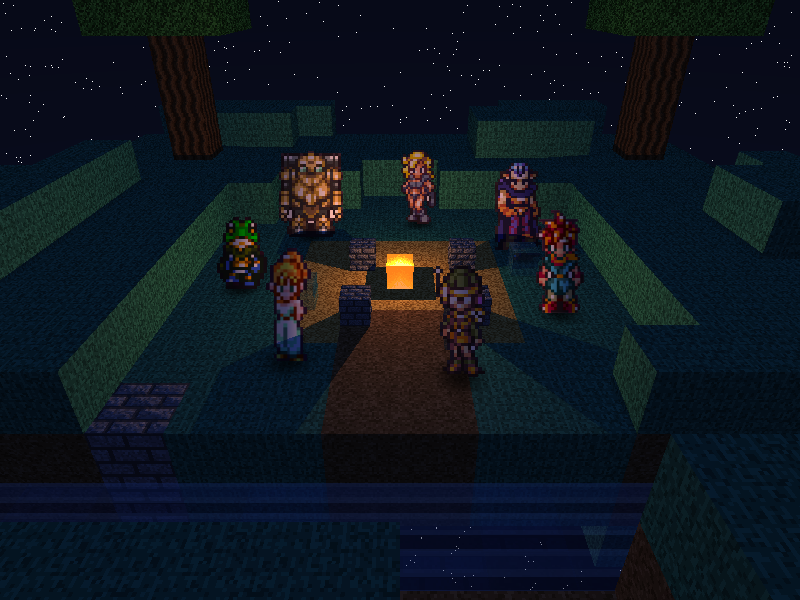
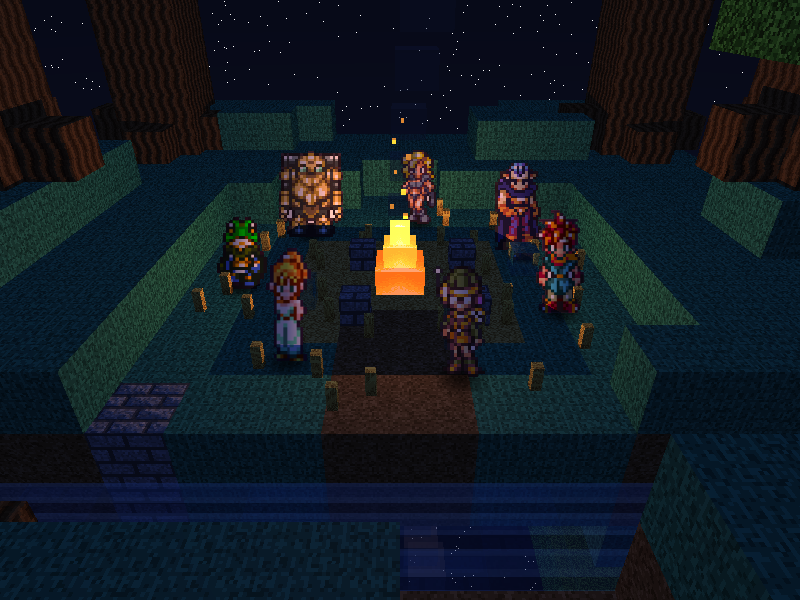
feat(scene): Se incorporan árboles gigantes, fogata en capas, humo, brasas y mechones de pasto.

diff --git a/src/scene.rs b/src/scene.rs
@@ -71,18 +71,99 @@ impl Scene {
         );
         cubes.extend(terrain);
 
-        // --- Árboles (4 esquinas, como en la referencia de Chrono Trigger) ---
-        for &(x, z) in &[(-6.0, -6.0), (6.0, -6.0), (-6.0, 6.0), (6.0, 6.0)] {
+        // --- Árboles gigantes (5-6 árboles en anillo alrededor de la clarería, radio ~7-9) ---
+        let tree_configs = [
+            (-6.5, -6.5, 0),
+            (6.5, -6.5, 1),
+            (-7.5, -0.5, 2),
+            (7.5, -0.5, 0),
+            (-6.0, 5.5, 1),
+            (6.0, 5.5, 2),
+        ];
+        for &(x, z, variant) in &tree_configs {
             let tree_y = terrain_height_at(&cubes, x, z);
-            cubes.extend(Self::tree(Vector3::new(x, tree_y, z), &mats));
+            cubes.extend(Self::giant_tree(Vector3::new(x, tree_y, z), variant, &mats));
         }
 
         let ground_y = terrain_height_at(&cubes, 0.0, 0.0);
-        // --- Círculo de piedras + fogata al centro (emisivo) ---
+        // --- Círculo de piedras alrededor de la fogata ---
         for &(x, z) in &[(-1.0, -1.0), (1.0, -1.0), (-1.0, 1.0), (1.0, 1.0)] {
             cubes.push(Cube::new(Vector3::new(x, ground_y, z), 0.5, mats.stone));
         }
-        cubes.push(Cube::new(Vector3::new(-0.25, ground_y, -0.25), 0.5, mats.campfire));
+
+        // --- Fuego con forma: 3 cubos emisivos apilados y decrecientes (~0.9, 0.6, 0.35) ---
+        cubes.push(Cube::new_box(
+            Vector3::new(-0.45, ground_y, -0.45),
+            Vector3::new(0.90, 0.48, 0.90),
+            mats.fire_base,
+        ).with_tile_uv(false));
+        cubes.push(Cube::new_box(
+            Vector3::new(-0.30, ground_y + 0.45, -0.30),
+            Vector3::new(0.60, 0.42, 0.60),
+            mats.fire_mid,
+        ).with_tile_uv(false));
+        cubes.push(Cube::new_box(
+            Vector3::new(-0.175, ground_y + 0.84, -0.175),
+            Vector3::new(0.35, 0.38, 0.35),
+            mats.fire_top,
+        ).with_tile_uv(false));
+
+        // --- Brasas: 7 cubos diminutos (~0.08) emisivos flotando sobre el fuego ---
+        let ember_offsets = [
+            (0.10, ground_y + 1.30, -0.08, 0.08),
+            (-0.14, ground_y + 1.55, 0.10, 0.07),
+            (0.06, ground_y + 1.82, 0.14, 0.08),
+            (-0.08, ground_y + 2.10, -0.12, 0.06),
+            (0.15, ground_y + 2.38, -0.04, 0.08),
+            (-0.10, ground_y + 2.68, 0.11, 0.07),
+            (0.04, ground_y + 2.98, -0.07, 0.06),
+        ];
+        for &(ex, ey, ez, es) in &ember_offsets {
+            cubes.push(Cube::new_box(
+                Vector3::new(ex - es * 0.5, ey, ez - es * 0.5),
+                Vector3::new(es, es, es),
+                mats.ember,
+            ).without_shadow().with_tile_uv(false));
+        }
+
+        // --- Humo: 7 cubos grises translúcidos (transparency ~0.75, IOR 1.0) subiendo hasta ~6 bloques ---
+        let smoke_steps = [
+            (-0.04, ground_y + 1.45, 0.02, 0.35),
+            (0.06, ground_y + 2.10, 0.07, 0.45),
+            (0.14, ground_y + 2.80, 0.14, 0.55),
+            (0.25, ground_y + 3.55, 0.22, 0.65),
+            (0.38, ground_y + 4.35, 0.32, 0.75),
+            (0.52, ground_y + 5.18, 0.44, 0.85),
+            (0.68, ground_y + 6.05, 0.58, 0.95),
+        ];
+        for &(sx, sy, sz, ss) in &smoke_steps {
+            cubes.push(Cube::new_box(
+                Vector3::new(sx - ss * 0.5, sy, sz - ss * 0.5),
+                Vector3::new(ss, ss * 0.85, ss),
+                mats.smoke,
+            ).without_shadow().with_tile_uv(false));
+        }
+
+        // --- Pasto amarillo: ~36 mechones dispersos en círculo de paja y borde de clarería ---
+        let tuft_coords = [
+            (-1.4, 0.6), (-0.8, -1.5), (1.5, -0.9), (0.7, 1.6),
+            (-1.8, -1.1), (1.9, 0.8), (-0.5, 1.8), (1.6, -1.6),
+            (-1.2, 1.3), (0.9, -1.8), (-1.9, 0.3), (1.8, 1.4),
+            (-0.7, -1.9), (1.3, 1.7), (-1.6, -0.6), (1.7, -0.4),
+            (-2.6, 1.2), (2.8, -1.1), (-1.2, 2.8), (1.1, -2.9),
+            (-2.9, -1.5), (3.1, 0.9), (-0.4, 3.2), (0.5, -3.3),
+            (-3.2, 0.4), (3.3, -1.8), (-2.1, 2.6), (2.2, -2.7),
+            (-2.7, -2.2), (2.9, 2.1), (-1.8, -3.0), (1.9, 3.1),
+            (-3.5, 1.0), (3.6, -0.6), (-0.9, 3.5), (1.0, -3.6),
+        ];
+        for &(tx, tz) in &tuft_coords {
+            let ty = terrain_height_at(&cubes, tx, tz);
+            cubes.push(Cube::new_box(
+                Vector3::new(tx - 0.075, ty, tz - 0.075),
+                Vector3::new(0.15, 0.40, 0.15),
+                mats.tuft,
+            ).without_shadow().with_tile_uv(false));
+        }
 
         // --- Cristales/gemas tirados cerca de la fogata (refracción + reflexión) ---
         for &(x, z) in &[(-2.0, 0.5), (2.2, -0.8), (0.7, 1.7)] {
@@ -91,7 +172,7 @@ impl Scene {
 
         // --- Luces (máximo 2: fogata con sombras + luz de relleno azul tenue sin sombras) ---
         let lights = vec![
-            Light::campfire(Vector3::new(0.0, ground_y + 0.8, 0.0)),
+            Light::campfire(Vector3::new(0.0, ground_y + 1.30, 0.0)),
             Light::sky_fill(Vector3::new(0.0, 15.0, 0.0)),
         ];
 
@@ -155,6 +236,7 @@ impl Scene {
             "assets/gem.png",
             "assets/water.png",
             "assets/straw.png",
+            "assets/tuft.png",
             "assets/party/Chrono.png",
             "assets/party/Marle.png",
             "assets/party/Lucca.png",
@@ -168,23 +250,98 @@ impl Scene {
         }
     }
 
-    /// Genera un árbol simple: tronco recto + copa de hojas.
-    fn tree(base: Vector3, mats: &SceneMaterials) -> Vec<Cube> {
+    /// Genera un árbol gigante con tronco 2x2, raíces en la base y copas oscuras apiladas en capas.
+    /// Con UV tiling, los bloques grandes de tronco y follaje repiten la textura cada 1 unidad en vez de estirarla.
+    fn giant_tree(base: Vector3, variant: usize, mats: &SceneMaterials) -> Vec<Cube> {
         let mut parts = Vec::new();
-        for i in 0..3 {
-            parts.push(Cube::new(base + Vector3::new(0.0, i as f32, 0.0), 1.0, mats.bark));
-        }
-        for dx in -1..=1 {
-            for dz in -1..=1 {
-                for dy in 0..2 {
-                    parts.push(Cube::new(
-                        base + Vector3::new(dx as f32, 3.0 + dy as f32, dz as f32),
-                        1.0,
-                        mats.leaves,
-                    ));
-                }
+
+        let (trunk_h, leaf_mat) = match variant {
+            0 => (6.5f32, mats.leaves),
+            1 => (7.0f32, mats.leaves_alt),
+            _ => (6.0f32, mats.leaves),
+        };
+
+        // Tronco grueso 2x2 de 6 a 7 bloques de alto (1 solo cubo con UV tiling)
+        parts.push(Cube::new_box(
+            Vector3::new(base.x - 1.0, base.y, base.z - 1.0),
+            Vector3::new(2.0, trunk_h, 2.0),
+            mats.bark,
+        ));
+
+        // Raíces: cubos de ~1x1 que ensanchan la base del tronco
+        parts.push(Cube::new_box(
+            Vector3::new(base.x - 1.9, base.y, base.z - 0.5),
+            Vector3::new(0.9, 1.1, 1.0),
+            mats.bark,
+        ));
+        parts.push(Cube::new_box(
+            Vector3::new(base.x + 1.0, base.y, base.z - 0.5),
+            Vector3::new(0.9, 0.9, 1.0),
+            mats.bark,
+        ));
+        parts.push(Cube::new_box(
+            Vector3::new(base.x - 0.5, base.y, base.z - 1.9),
+            Vector3::new(1.0, 1.0, 0.9),
+            mats.bark,
+        ));
+        parts.push(Cube::new_box(
+            Vector3::new(base.x - 0.5, base.y, base.z + 1.0),
+            Vector3::new(1.0, 0.8, 0.9),
+            mats.bark,
+        ));
+
+        // Copas oscuras en 2-3 capas apiladas y de distinto ancho
+        match variant {
+            0 => {
+                // Capa inferior ancha 6x2x6
+                parts.push(Cube::new_box(
+                    Vector3::new(base.x - 3.0, base.y + trunk_h - 1.0, base.z - 3.0),
+                    Vector3::new(6.0, 2.0, 6.0),
+                    leaf_mat,
+                ));
+                // Capa superior 4x2x4
+                parts.push(Cube::new_box(
+                    Vector3::new(base.x - 2.0, base.y + trunk_h + 1.0, base.z - 2.0),
+                    Vector3::new(4.0, 2.0, 4.0),
+                    leaf_mat,
+                ));
+            }
+            1 => {
+                // Capa inferior 5x2x6
+                parts.push(Cube::new_box(
+                    Vector3::new(base.x - 2.5, base.y + trunk_h - 1.2, base.z - 3.0),
+                    Vector3::new(5.0, 2.0, 6.0),
+                    leaf_mat,
+                ));
+                // Capa media 4x1.8x4
+                parts.push(Cube::new_box(
+                    Vector3::new(base.x - 2.0, base.y + trunk_h + 0.8, base.z - 2.0),
+                    Vector3::new(4.0, 1.8, 4.0),
+                    leaf_mat,
+                ));
+                // Cúpula superior 2.5x1.5x2.5
+                parts.push(Cube::new_box(
+                    Vector3::new(base.x - 1.25, base.y + trunk_h + 2.6, base.z - 1.25),
+                    Vector3::new(2.5, 1.5, 2.5),
+                    leaf_mat,
+                ));
+            }
+            _ => {
+                // Capa inferior 5.5x2x5.5
+                parts.push(Cube::new_box(
+                    Vector3::new(base.x - 2.75, base.y + trunk_h - 0.8, base.z - 2.75),
+                    Vector3::new(5.5, 2.0, 5.5),
+                    leaf_mat,
+                ));
+                // Capa superior 3.5x2x3.5
+                parts.push(Cube::new_box(
+                    Vector3::new(base.x - 1.75, base.y + trunk_h + 1.2, base.z - 1.75),
+                    Vector3::new(3.5, 2.0, 3.5),
+                    leaf_mat,
+                ));
             }
         }
+
         parts
     }
 }

diff --git a/src/main.rs b/src/main.rs
@@ -61,8 +61,8 @@ fn main() {
 
     let mut camera = if elevated {
         Camera::new(
-            Vector3::new(9.0, 10.0, 4.5),
-            Vector3::new(0.0, 2.0, 0.5),
+            Vector3::new(2.5, 12.5, 10.5),
+            Vector3::new(0.0, 2.5, 0.0),
             Vector3::new(0.0, 1.0, 0.0),
         )
     } else if rotated {
